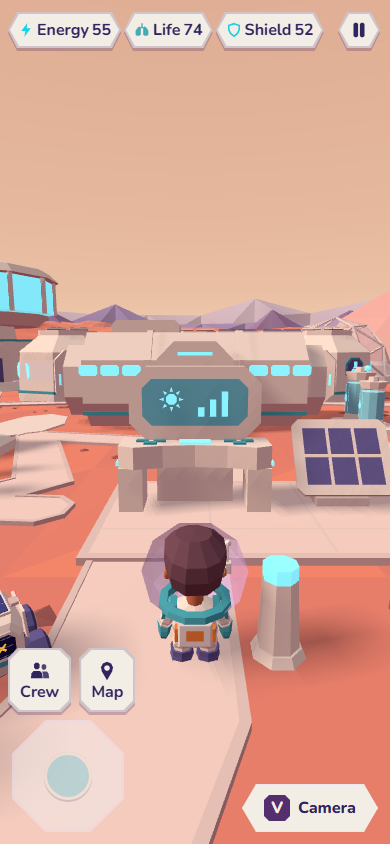
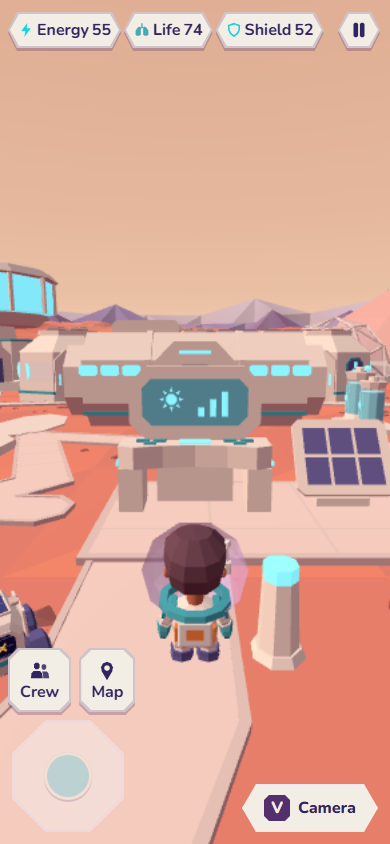
fix(escena): D1 puerta del hábitat y plato de la antena según la revisión de F3

diff --git a/ui/src/escena/activos/edificios.ts b/ui/src/escena/activos/edificios.ts
@@ -1,7 +1,7 @@
 /** Edificios fijos de la base: hábitat, torre, corredor y cápsula (mundo/01). */
 import * as THREE from "three";
 import { geometriaBase, type Materiales } from "../materiales";
-import { caja, chaflan, grupo, parte, tronco } from "./piezasComunes";
+import { caja, chaflan, grupo, parte, tenida, tronco } from "./piezasComunes";
 import { panelTecho } from "./estaciones";
 
 // El armado los fusiona por material en una malla por slot; frente hacia +z y base en y = 0.
@@ -23,25 +23,50 @@ export function plantaHabitat(largo = LARGO_HABITAT): { ancho: number; fondo: nu
   return { ancho: largo + 2 * (0.3 + 0.45), fondo: escalon - espalda, dz: (escalon + espalda) / 2 };
 }
 
+/** Vano de la puerta: 1,2 m de ancho y 1,95 de alto, con las esquinas de arriba recortadas. [E] */
+const VANO: readonly [number, number][] = [[-0.6, 0], [0.6, 0], [0.6, 1.7], [0.35, 1.95], [-0.35, 1.95], [-0.6, 1.7]];
+
+/** Hojas de la puerta con la forma del vano, 4 cm de grosor (cara en z = +0,02). */
+function hojaPuerta(): THREE.BufferGeometry {
+  return geometriaBase("hab-puerta-hoja", () => {
+    const g = new THREE.ExtrudeGeometry(new THREE.Shape(VANO.map(([a, b]) => new THREE.Vector2(a, b))), { depth: 0.04, bevelEnabled: false });
+    g.translate(0, 0, -0.02);
+    return g;
+  });
+}
+
+/** Marco grueso alrededor del vano: perfil en U de 1,9 x 2,45 con chaflán arriba, 0,22 m de fondo (de z = 0 a 0,22). */
+function marcoPuerta(): THREE.BufferGeometry {
+  return geometriaBase("hab-puerta-marco", () => {
+    // Borde exterior con el vano recortado por abajo: una sola cara en U.
+    const contorno: [number, number][] = [[-0.95, 0], [-0.6, 0], [-0.6, 1.7], [-0.35, 1.95], [0.35, 1.95], [0.6, 1.7], [0.6, 0], [0.95, 0], [0.95, 2.2], [0.7, 2.45], [-0.7, 2.45], [-0.95, 2.2]];
+    return new THREE.ExtrudeGeometry(new THREE.Shape(contorno.map(([a, b]) => new THREE.Vector2(a, b))), { depth: 0.22, bevelEnabled: false });
+  });
+}
+
 /** Hábitat alargado (eje x): casco octogonal, remates, puerta central, escalón y ventanas cian. */
 export function crearHabitat(m: Materiales, largo = LARGO_HABITAT): THREE.Group {
   const x = largo / 2;
+  // Malva grisáceo: índigo de las botas aclarado hacia lila, pintado en el vértice (sin material nuevo).
+  const hojas = parte(m, "Rock", tenida("hab-hoja", hojaPuerta(), "indigo-botas", "lila", 0.4), [0, 0.1, 2.27], "Habitat_DoorLeaf");
   const partes: THREE.Object3D[] = [
     girada(parte(m, "SuitBase", chaflan(3.6, 3.0, largo, 0.85), [0, 1.5, 0], "Habitat_Hull"), 0, Math.PI / 2, 0),
     girada(parte(m, "SuitBase", tronco(1.25, 1.25, 0.9, 8), [-x - 0.3, 1.45, 0], "Habitat_EndL"), 0, 0, Math.PI / 2),
     girada(parte(m, "SuitBase", tronco(1.25, 1.25, 0.9, 8), [x + 0.3, 1.45, 0], "Habitat_EndR"), 0, 0, Math.PI / 2),
     parte(m, "SuitBase", chaflan(2.2, 2.7, 0.7, 0.5), [0, 1.35, 1.9], "Habitat_Porch"),
-    parte(m, "Boots", caja(1.2, 1.9, 0.05), [0, 1.05, 2.27], "Habitat_DoorLeaf"),
-    parte(m, "Emissive", caja(1.0, 0.1, 0.03), [0, 2.35, 2.27], "Habitat_DoorLight"),
+    // Puerta de la lámina `mundo/01` (revisión F3 en #342): vano octogonal hundido 0,2 m tras un marco
+    // grueso, hojas malva grisáceo, franja cian arriba y una franja cian vertical a cada lado.
+    hojas,
+    parte(m, "SuitBase", marcoPuerta(), [0, 0.1, 2.25], "Habitat_DoorFrame"),
+    parte(m, "Emissive", caja(0.9, 0.1, 0.02), [0, 2.4, 2.48], "Habitat_DoorLight"),
+    parte(m, "Emissive", caja(0.12, 0.9, 0.02), [-0.78, 1.2, 2.48], "Habitat_DoorStripL"),
+    parte(m, "Emissive", caja(0.12, 0.9, 0.02), [0.78, 1.2, 2.48], "Habitat_DoorStripR"),
     parte(m, "SuitBase", caja(2.4, 0.14, 0.7), [0, 0.07, 2.55], "Habitat_Step"),
     parte(m, "SuitBase", caja(2.0, 0.14, 0.4), [0, 0.21, 2.45], "Habitat_Step2"),
-    parte(m, "SuitBase", caja(0.05, 1.9, 0.03), [0, 1.05, 2.31], "Habitat_DoorSeam"),
+    parte(m, "SuitBase", caja(0.05, 1.85, 0.03), [0, 1.02, 2.3], "Habitat_DoorSeam"),
     parte(m, "SuitBase", chaflan(2.2, 0.5, 1.4, 0.15), [-1.6, 3.15, -0.2], "Habitat_RoofBox"),
     parte(m, "Accent", caja(largo, 0.12, 0.04), [0, 0.55, 1.81], "Habitat_Band"),
-    // Marco saliente de la puerta y mejillas de la escalera (lámina `mundo/01`).
-    parte(m, "SuitBase", caja(0.14, 2.0, 0.08), [-0.67, 1.05, 2.3], "Habitat_DoorJambL"),
-    parte(m, "SuitBase", caja(0.14, 2.0, 0.08), [0.67, 1.05, 2.3], "Habitat_DoorJambR"),
-    parte(m, "SuitBase", caja(1.48, 0.14, 0.08), [0, 2.07, 2.3], "Habitat_DoorLintel"),
+    // Mejillas de la escalera (lámina `mundo/01`).
     parte(m, "SuitBase", caja(0.12, 0.36, 0.7), [-1.26, 0.18, 2.55], "Habitat_StepCheekL"),
     parte(m, "SuitBase", caja(0.12, 0.36, 0.7), [1.26, 0.18, 2.55], "Habitat_StepCheekR"),
   ];

diff --git a/ui/src/escena/activos/modulos.ts b/ui/src/escena/activos/modulos.ts
@@ -7,7 +7,7 @@
 import * as THREE from "three";
 import type { Equipment } from "@solar-shield/contracts";
 import { colorToken, geometriaBase, type Materiales } from "../materiales";
-import { caja, chaflan, crearDeposito, crearPuerta, parte, tronco } from "./piezasComunes";
+import { caja, chaflan, crearDeposito, crearPuerta, parte, tenida, tronco } from "./piezasComunes";
 import type { EstadoModulo } from "../vista";
 
 /** Los cinco anclajes que siempre existen en la base (ESCENAS.md §3.2). La batería y la IA no son anclajes. */
@@ -309,9 +309,12 @@ function antena(m: Materiales): THREE.Group {
       if (!dentro) geo.translate(0, 0, -0.03);
       return geo;
     });
-  const cabeza = colocar(grupo("Antenna_Head"), [0, 2.4, 0], [-0.6, 0, 0]);
+  // Unos 50° hacia el cielo (revisión F3 en #342): desde el camino se ve el hondo del plato.
+  const cabeza = colocar(grupo("Antenna_Head"), [0, 2.4, 0], [-0.9, 0, 0]);
+  // Hondo lila y borde marfil (revisión F3); color de vértice en el slot `Rock`, sin material nuevo.
+  const hondo = parte(m, "Rock", tenida("antena-hondo", plato(true), "lila", "indigo-botas", 0.25), [0, 0, 0], "Antenna_Dish");
   cabeza.add(
-    parte(m, "SuitBase", plato(true), [0, 0, 0], "Antenna_Dish"),
+    hondo,
     parte(m, "SuitBase", plato(false), [0, 0, 0], "Antenna_DishBack"),
     // Aro grueso en el borde del plato, como en la lámina (abierto: no tapa la cara del plato).
     parte(m, "SuitBase", geometriaBase("mod-antena-aro", () => new THREE.TorusGeometry(1.31, 0.07, 4, 12)), [0, 0, 0.42], "Antenna_DishRim"),
@@ -328,8 +331,8 @@ function antena(m: Materiales): THREE.Group {
     piso(1.7, 0.7, 0.3, "Antenna_Tier1"),
     piso(1.2, 0.6, 1.0, "Antenna_Tier2"),
     parte(m, "SuitBase", caja(0.8, 0.5, 0.8), [0, 1.85, 0], "Antenna_Housing"),
-    parte(m, "Boots", caja(0.36, 0.22, 0.03), [0, 0.68, 0.86], "Antenna_Vent1"),
-    parte(m, "Boots", caja(0.28, 0.2, 0.03), [0, 1.32, 0.61], "Antenna_Vent2"),
+    parte(m, "Rock", tenida("antena-vent", caja(0.36, 0.22, 0.03), "indigo-botas", "indigo-botas", 0), [0, 0.68, 0.86], "Antenna_Vent1"),
+    parte(m, "Rock", tenida("antena-vent", caja(0.28, 0.2, 0.03), "indigo-botas", "indigo-botas", 0), [0, 1.32, 0.61], "Antenna_Vent2"),
     parte(m, "SuitBase", caja(0.7, 0.3, 0.3), [0, 2.25, 0], "Antenna_Yoke"),
     cabeza,
   );

diff --git a/ui/src/escena/activos/piezasComunes.ts b/ui/src/escena/activos/piezasComunes.ts
@@ -51,6 +51,25 @@ export const tronco = (rArriba: number, rAbajo: number, h: number, n: number) =>
     return g;
   });
 
+type Token = Parameters<typeof colorToken>[0];
+
+/**
+ * Copia de `g` (de la caché) pintada con color de vértice: el token `a` mezclado hacia `b` en la
+ * fracción `t`. Va con el slot `Rock` (blanco con `vertexColors`), así los tonos de las láminas que
+ * la paleta no tiene sueltos (malva grisáceo, lila del plato) no suman materiales ni draw calls.
+ */
+export function tenida(clave: string, g: THREE.BufferGeometry, a: Token, b: Token, t: number): THREE.BufferGeometry {
+  return geometriaBase(`kit-tenida-${clave}-${a}-${b}-${t}`, () => {
+    const c = g.clone();
+    const color = colorToken(a).lerp(colorToken(b), t);
+    const n = c.getAttribute("position").count;
+    const col = new Float32Array(n * 3);
+    for (let i = 0; i < n; i++) col.set([color.r, color.g, color.b], i * 3);
+    c.setAttribute("color", new THREE.BufferAttribute(col, 3));
+    return c;
+  });
+}
+
 /** Malla con geometría de caché y material de slot, ya colocada. */
 export function parte(m: Materiales, slot: Slot, g: THREE.BufferGeometry, pos: V3, nombre: string): THREE.Mesh {
   const malla = new THREE.Mesh(g, m[slot]);

diff --git a/docs/referenciapau/estado/frente-d.md b/docs/referenciapau/estado/frente-d.md
@@ -1,17 +1,16 @@
 # Estado del Frente D (Daniel)
 
-Actualizado: 15 nov 2026, iteración 2 del loop.
+Actualizado: 15 nov 2026, iteración 4 del loop.
 
 **Hecho**
-- D1 (mientras tanto, sin C2): hábitat más fiel a `mundo/01` y `exterior/03`: ventanas apaisadas, costillas que parten el casco en tramos, marco saliente de puerta y mejillas de escalera. Rama `feat/frente-d-d1-mallas`, PR en borrador.
-- D1: antena como `mundo/01`: pedestal escalonado de dos pisos con ventilaciones y caseta en lugar del mástil fino, aro en el borde del plato y bola de alimentador más grande. Sin GPU (Playwright headless, `media`, vista de la antena): antes 29 fps, 27 draw calls, 48 023 triángulos; después 29 fps, 26 draw calls, 48 303 triángulos.
-- Medido en calidad `media` (PC con GPU, vista previa `?modulos=todos&medir=1`): antes 165 fps, 47 draw calls, 52 467 triángulos; después 165 fps, 47 draw calls, 52 583 triángulos.
+- D1 (#342, borrador): corregidos los 4 pedidos de F3. Hábitat: vano octogonal hundido con marco grueso, hojas malva grisáceo y dos franjas cian a los lados. Antena: plato a unos 50° y hondo lila con borde marfil. Tonos con color de vértice en `Rock` (helper `tenida`): sin materiales ni draw calls nuevos.
+- D2 parte 1 (#350): la cámara de sombra sigue al niño.
+- fps (headless sin GPU, PC cargada por otras sesiones, `media`, alternando): antes 10, después 9; 47 draw calls en ambos.
 
 **Sigue**
-- D1: torre de control y cápsula, una por iteración. A0 (#337) ya está en develop: D2, D3 y D4 quedan desbloqueadas.
-- Ubicar los edificios cuando C2 esté fusionado.
+- Esperar la nueva revisión de F3 en #342.
+- D2 parte 2: sombra de contacto de personajes y calidad de sombra por nivel.
 
 **Bloqueado**
-- D1 completo espera a C2 (redistribución de la base), que todavía no tiene PR.
-- Falta la aprobación de María Paula (F3) de los pares lámina/captura.
-- Vista general de la base sin GPU en `media`: 20 fps (meta de D4: 30).
+- C2 sin PR (bloquea cerrar D1).
+- Push forzado bloqueado en mi entorno: integro develop con merge.
